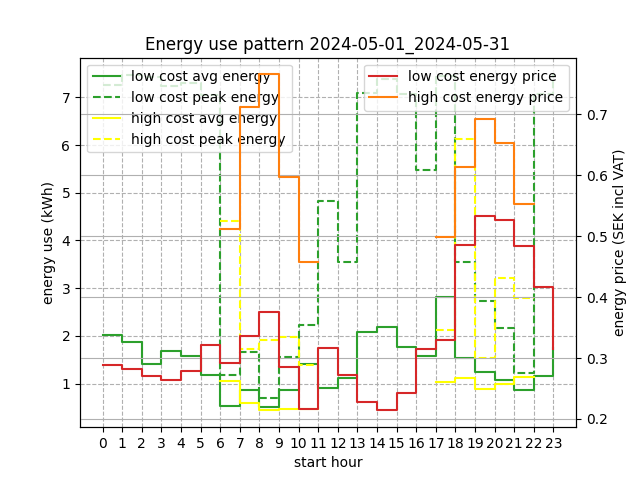
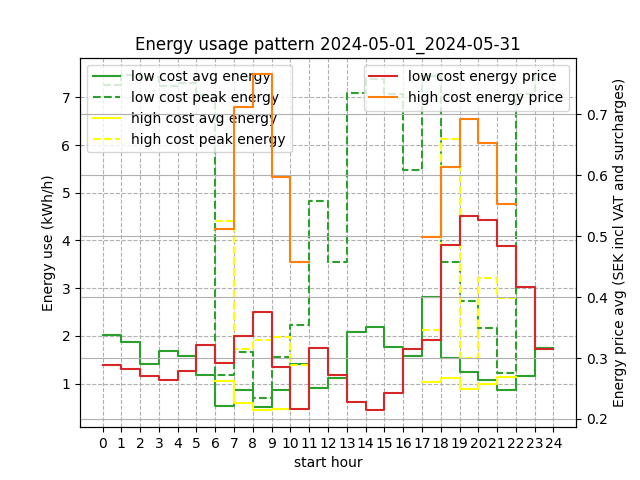
Draw plot til 24:00

diff --git a/tibber_easee_peak_power_analyzer.py b/tibber_easee_peak_power_analyzer.py
@@ -21,7 +21,7 @@ import tibber  # pip install pyTibber (min 0.30.3 - supporting python 3.11 or la
 EASEE_API_ACCESS_TOKEN = None  # Leave as None to analyze without ignoring EV
 EASEE_CHARGER_ID = "EHVZ2792"
 NORDPOOL_PRICE_CODE = "SEK"
-START_DATE = datetime.date.fromisoformat("2024-05-01")  # None for one month back
+START_DATE = datetime.date.fromisoformat("2025-05-01")  # None for one month back
 API_TIMEOUT = 10.0  # seconds
 EASEE_API_BASE = "https://api.easee.com/api"
 HTTP_SUCCESS_CODE = 200
@@ -90,17 +90,26 @@ def render_visualization(start_date, low_prices, low_cons, high_prices, high_con
     low_e_color = "tab:green"
     high_e_color = "#ffff00"
 
-    x = np.arange(0, 24)
+    x = np.arange(0, 25)  # Render line til 24:00
+    high_prices.append(None)  # Render line til 24:00
+    low_prices.append(None)  # Render line til 24:00
+
     low_avg_cons = []
     low_peak_cons = []
     for cons in low_cons:
         low_avg_cons.append(cons["avg"])
         low_peak_cons.append(cons["max"])
+    low_avg_cons.append(None)  # Render line til 24:00
+    low_peak_cons.append(None)  # Render line til 24:00
+
     high_avg_cons = []
     high_peak_cons = []
     for cons in high_cons:
         high_avg_cons.append(cons["avg"])
         high_peak_cons.append(cons["max"])
+    high_avg_cons.append(None)  # Render line til 24:00
+    high_peak_cons.append(None)  # Render line til 24:00
+
     low_avg = np.array(low_avg_cons)
     low_peak = np.array(low_peak_cons)
     high_avg = np.array(high_avg_cons)
@@ -109,7 +118,6 @@ def render_visualization(start_date, low_prices, low_cons, high_prices, high_con
     plt.xticks(x)
     price_twin = axes.twinx()
     price_twin.grid(linestyle="-")
-    price_twin.set_ylabel("price")
     price_twin.plot(
         x,
         np.array(low_prices),
@@ -124,7 +132,7 @@ def render_visualization(start_date, low_prices, low_cons, high_prices, high_con
         label="high cost energy price",
         drawstyle="steps-post",
     )
-    price_twin.set_ylabel("energy price (SEK incl VAT)")
+    price_twin.set_ylabel("Energy price avg (SEK incl VAT and surcharges)")
     price_twin.legend(loc="upper right")
 
     axes.plot(
@@ -158,11 +166,11 @@ def render_visualization(start_date, low_prices, low_cons, high_prices, high_con
         linestyle="--",
     )
     axes.set_xlabel("start hour")
-    axes.set_ylabel("energy use (kWh)")
+    axes.set_ylabel("Energy use (kWh/h)")
     axes.grid(linestyle="--")
     axes.legend(loc="upper left")
 
-    plt.title(f"Energy use pattern {start_date}")
+    plt.title(f"Energy usage pattern {start_date}")
     plt.savefig(f"{start_date}.png")
     # plt.show()
 
